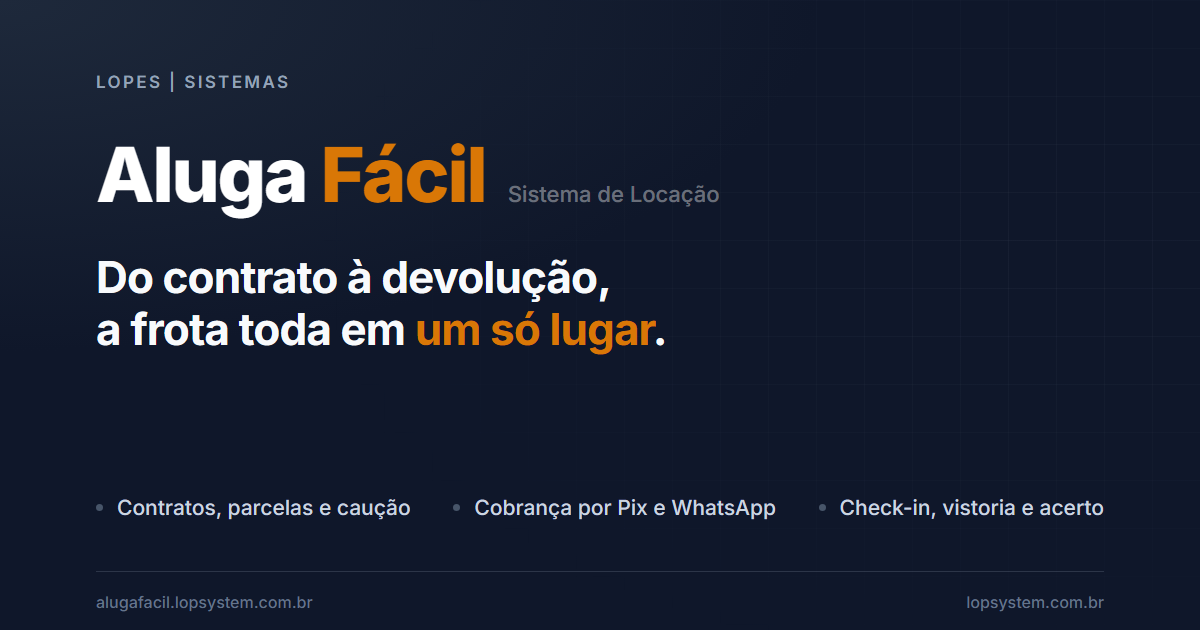
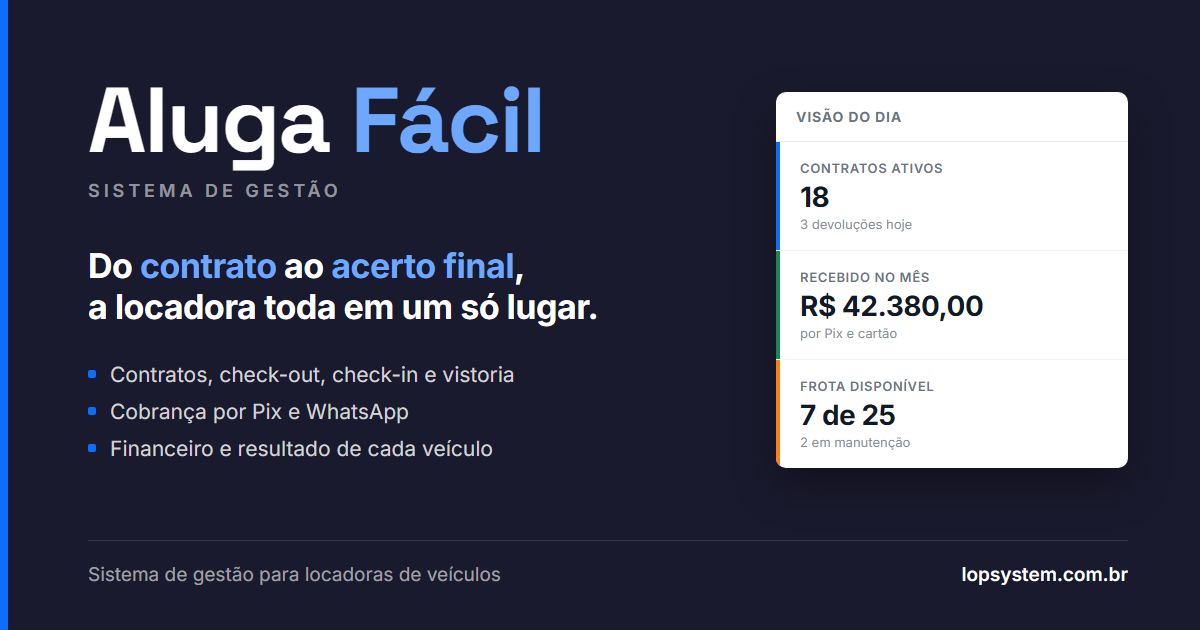
alteração para deploy

diff --git a/templates/financeiro/cobranca_publica.html b/templates/financeiro/cobranca_publica.html
@@ -14,7 +14,7 @@
   <meta property="og:image" content="{{ request.scheme }}://{{ request.get_host }}{% static 'img/og-image.png' %}">
   <meta property="og:image:width" content="1200">
   <meta property="og:image:height" content="630">
-  <meta property="og:image:alt" content="Aluga Fácil — Sistema de Locação">
+  <meta property="og:image:alt" content="Aluga Fácil — Sistema de Gestão">
   <meta name="twitter:card" content="summary_large_image">
   <meta name="twitter:title" content="Pagamento da sua locação — Aluga Fácil">
   <meta name="twitter:description" content="Acesse para ver os dados do pagamento e pagar por Pix.">
